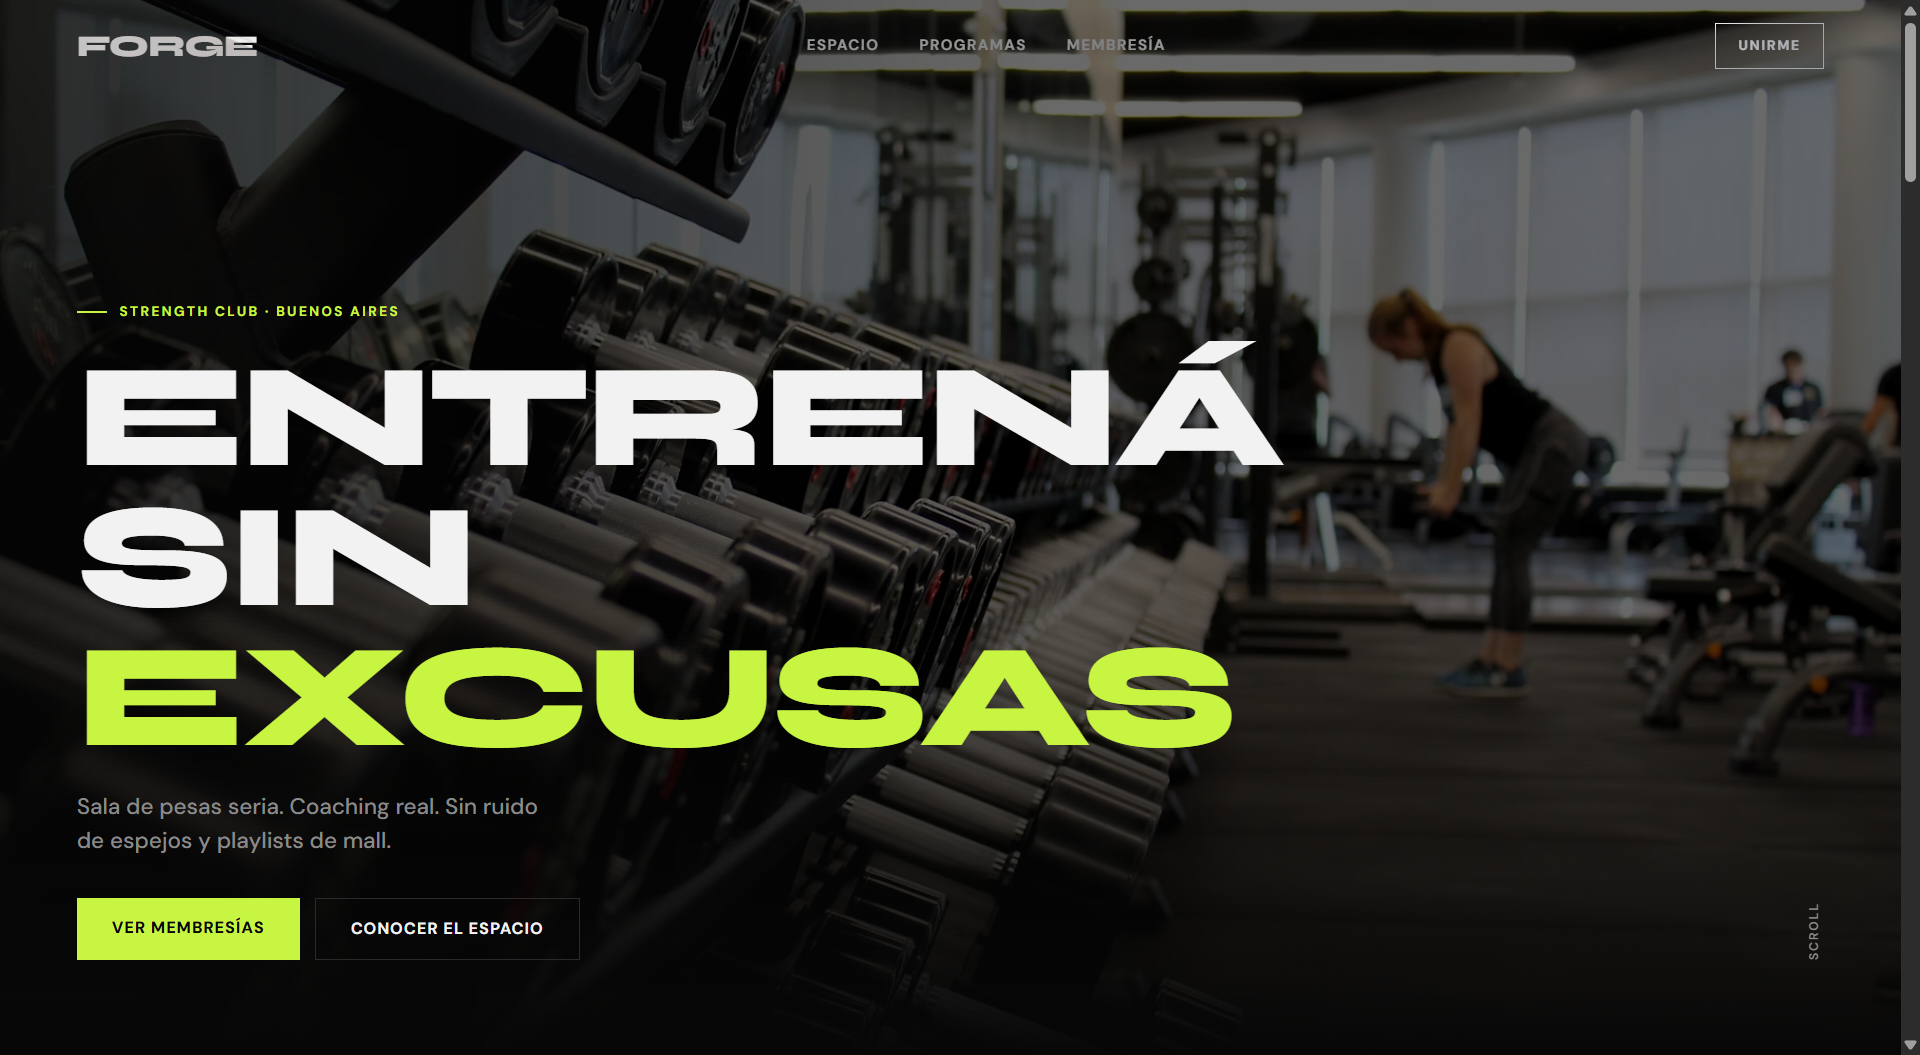
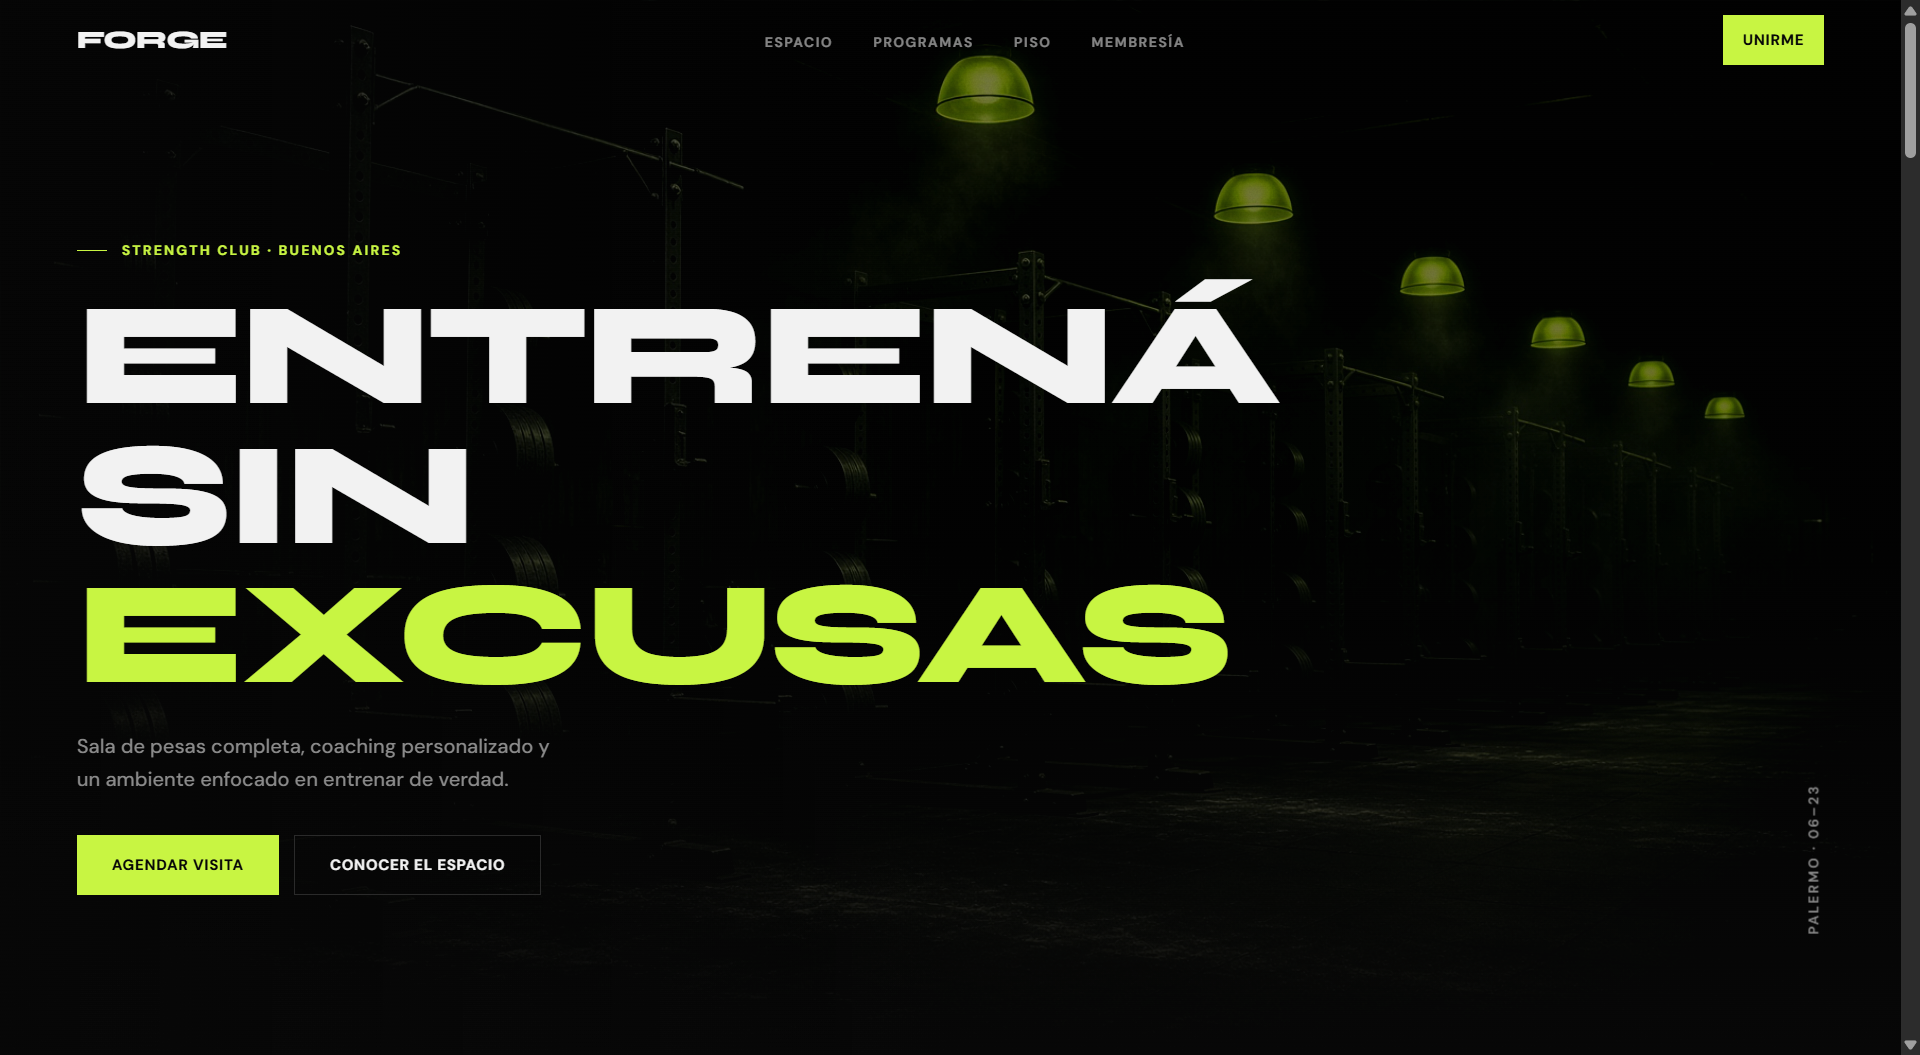
fix demo gym

diff --git a/src/data.js b/src/data.js
@@ -134,9 +134,9 @@ export const templates = [
     {
         index: "07",
         name: { es: "Gimnasio", en: "Gym" },
-        category: { es: "Fitness · Landing page", en: "Fitness · Landing page" },
+        category: { es: "Fitness · Website", en: "Fitness · Website" },
         image: "/templates/gym/gym2.png",
-        link: "/templates/gym/gym2.html",
+               link: "https://demo-gym-ruby.vercel.app/",
     },
 ];
 
